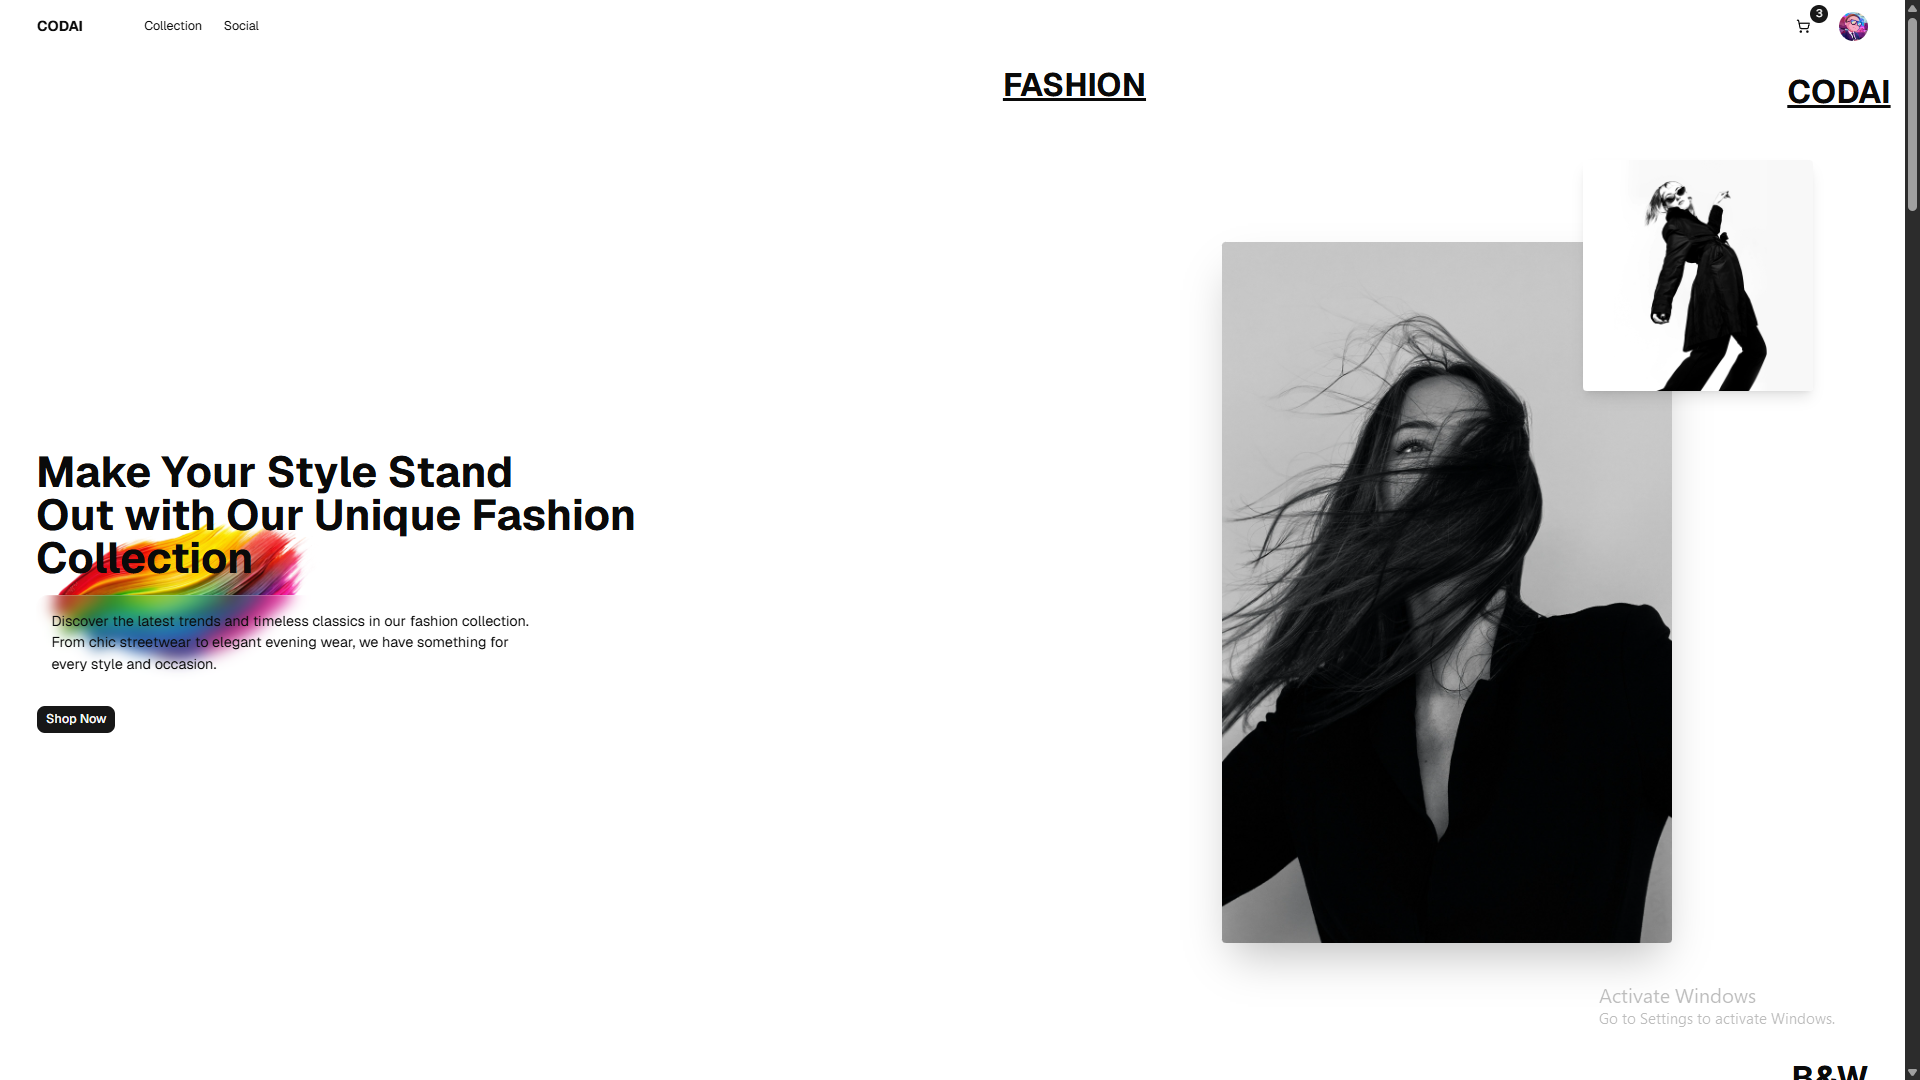
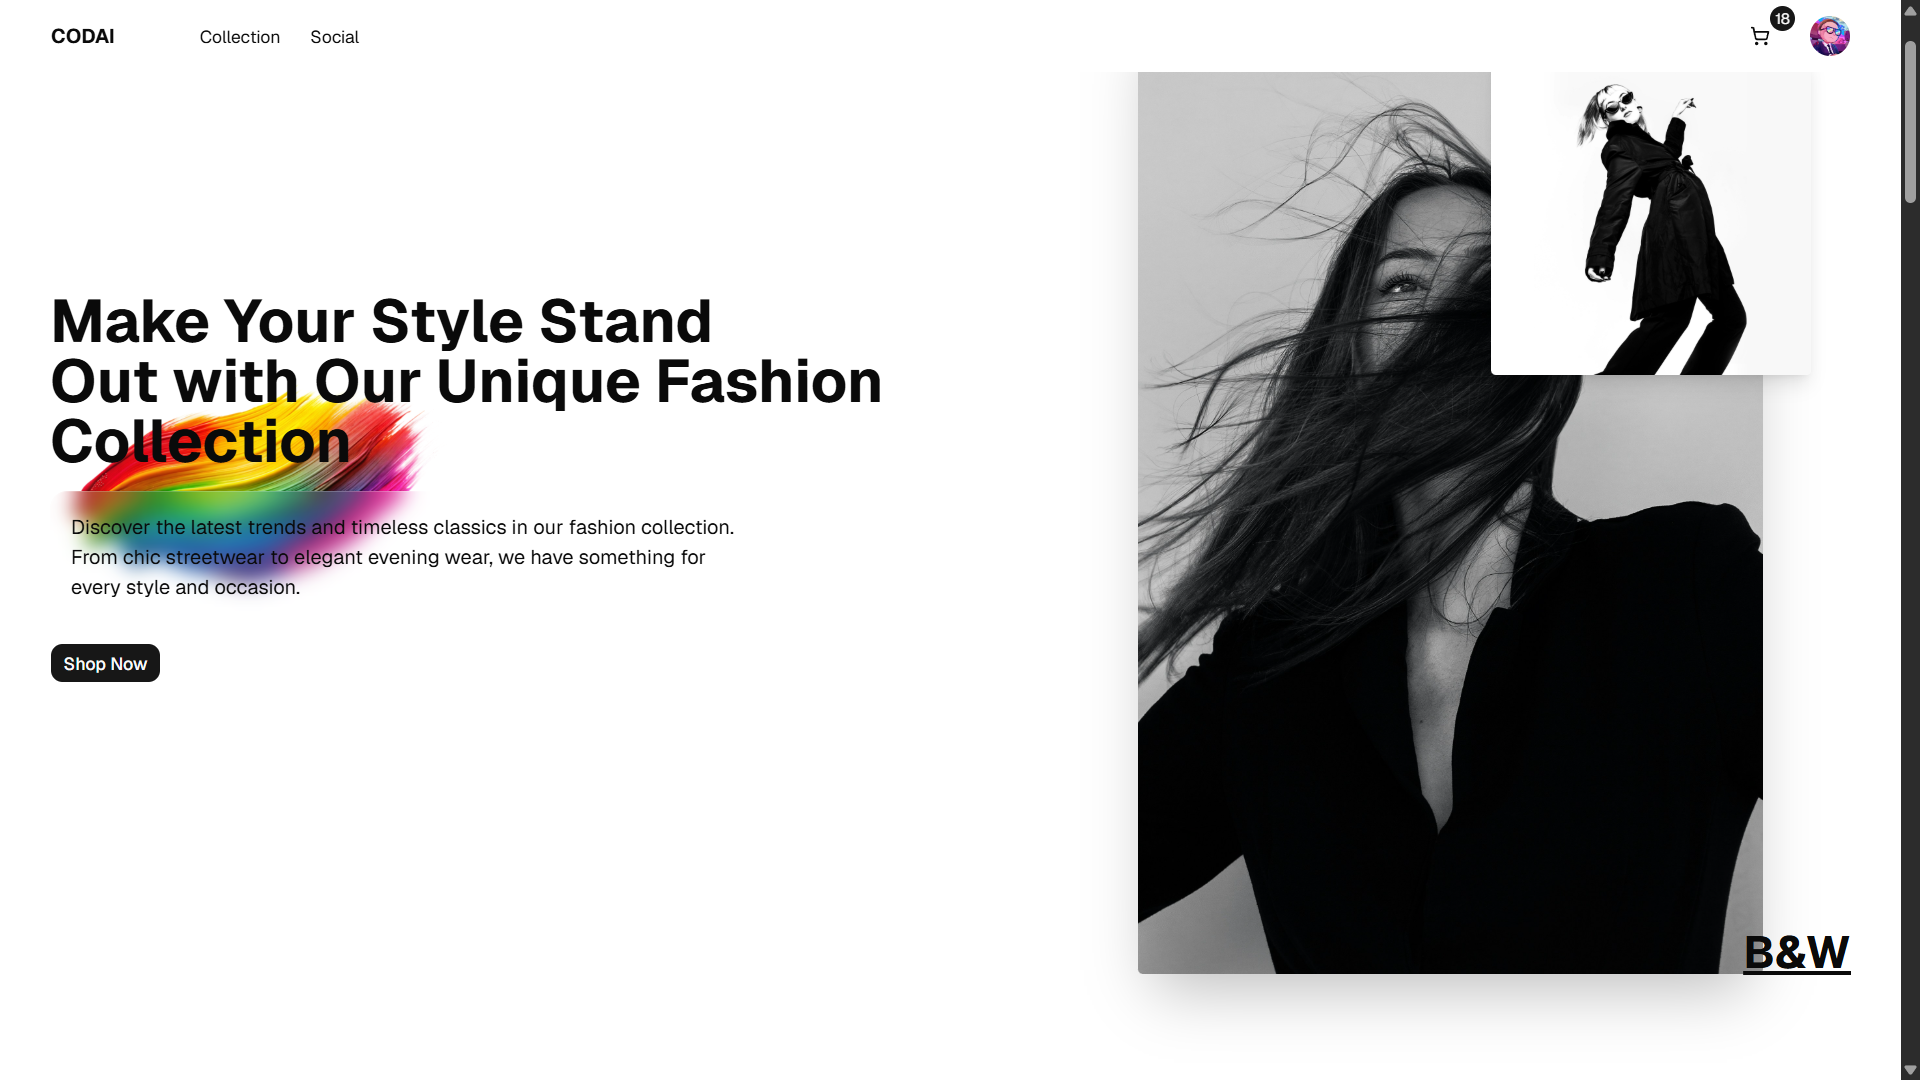
update

diff --git a/README.md b/README.md
@@ -32,11 +32,17 @@ Codai is a modern e-commerce web application built with **TypeScript** and desig
 
 ## 🖼️ Screenshots
 
-| Home | Product Detail | Cart |
+| Home | Collection | Recommended |
 |------|---------------|------|
-| ![Home](src/assets_readme/home.png) | ![Detail](./public/screenshots/detail.png) | ![Cart](./public/screenshots/cart.png) |
+| ![Home](src/assets_readme/home.png) | ![Collection](src/assets_readme/collec.png) | ![Recommended](src/assets_readme/reccom.png) |
 
-> Replace the screenshots above with your actual project images.
+| Social | Footer | Cart |
+|------|---------------|------|
+| ![Social](src/assets_readme/social.png) | ![Footer](src/assets_readme/footer.png) | ![Cart](src/assets_readme/cart.png) |
+
+| SingIn |
+|------|
+| ![SingIn](src/assets_readme/signin.png) |
 
 ---
 